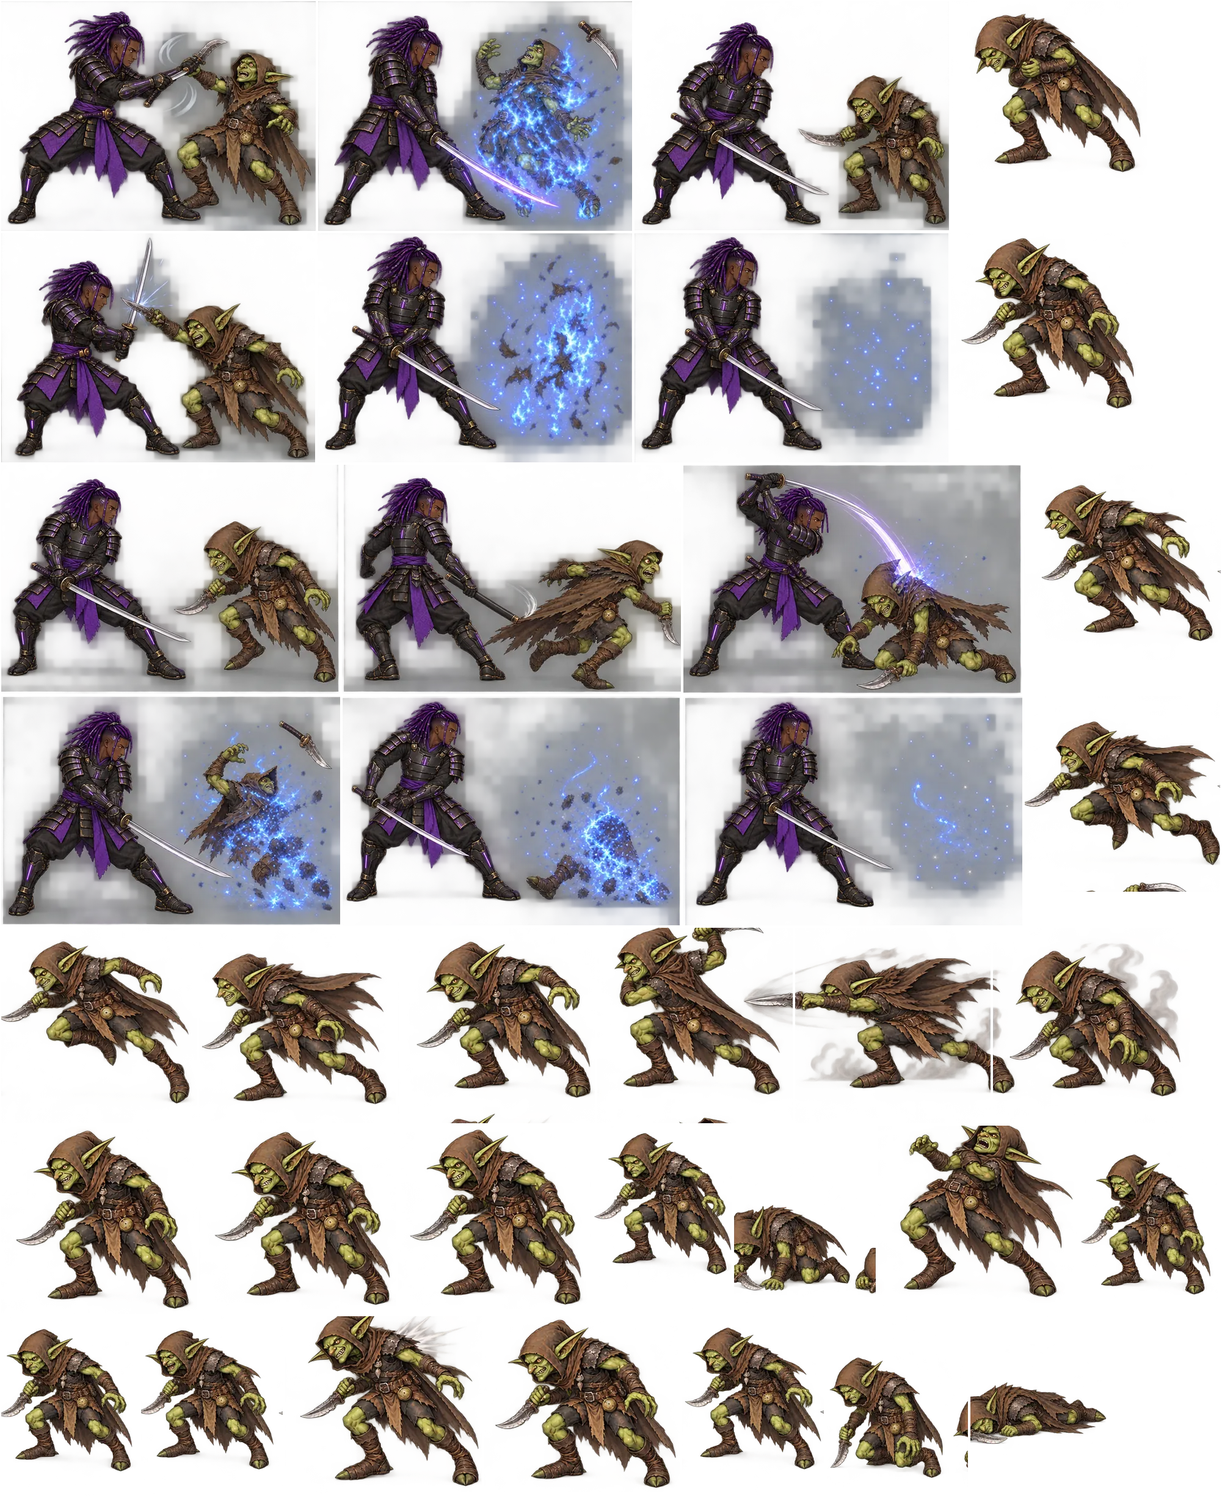
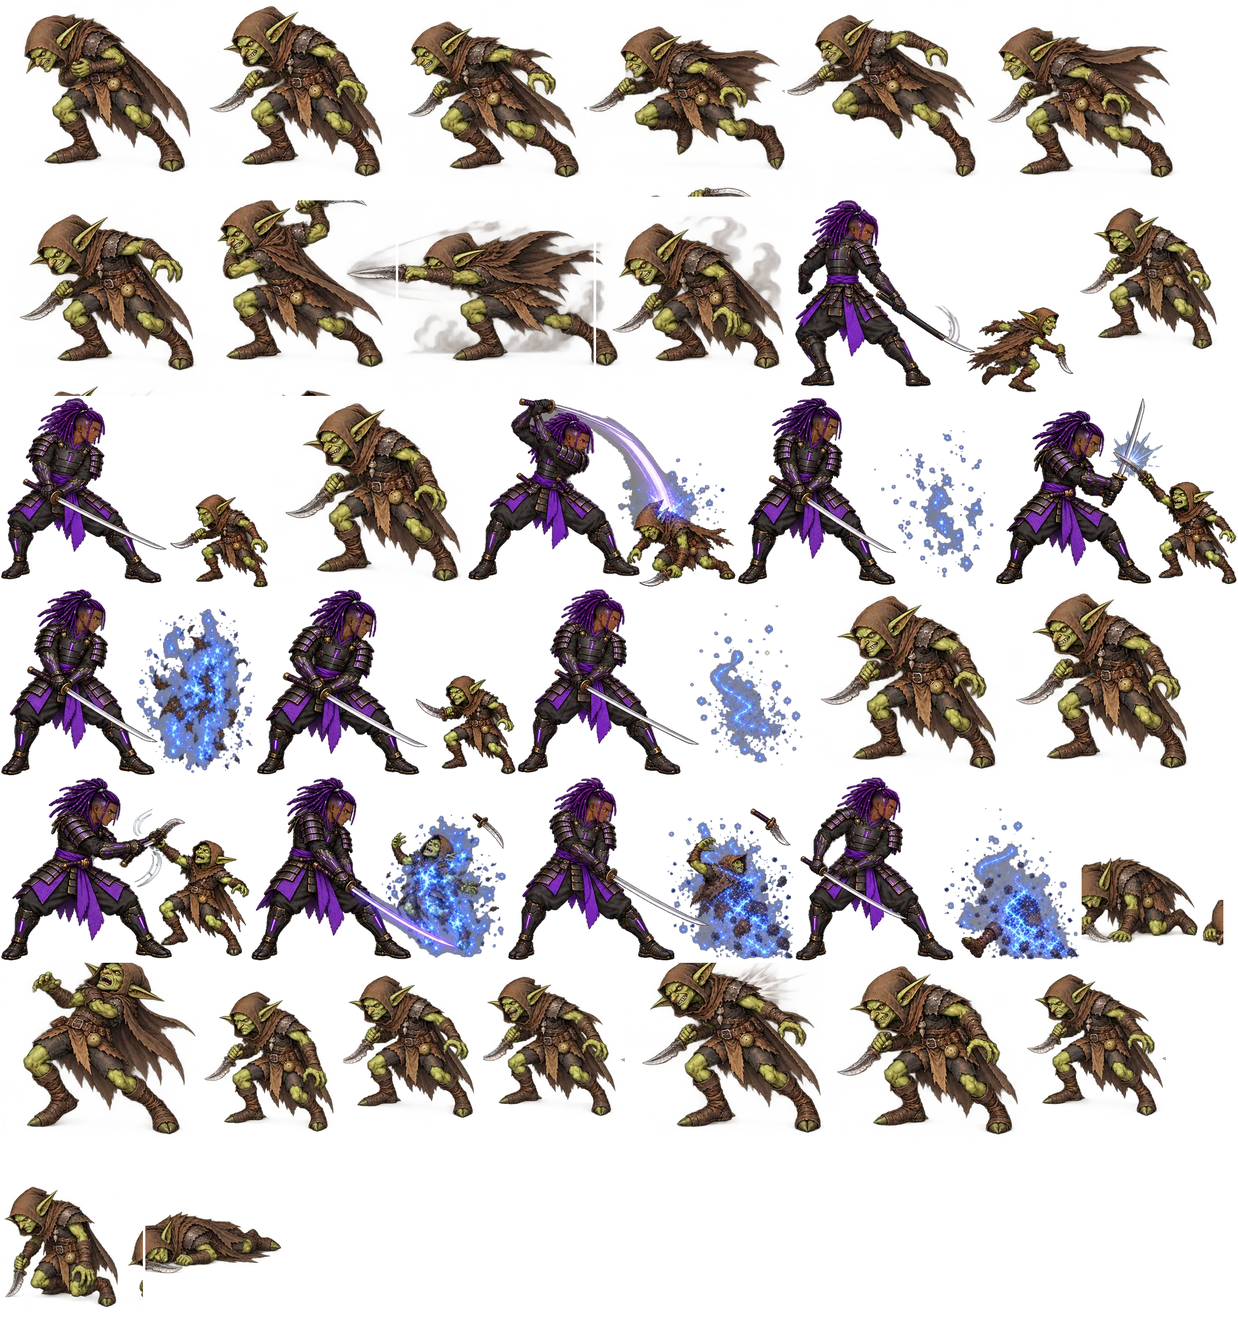
Keep enemy crowd scale and polish inn guests and swamp presentation

diff --git a/test/browser_release_polish.js b/test/browser_release_polish.js
@@ -13,11 +13,19 @@ const server=http.createServer((req,res)=>{const rel=decodeURIComponent(req.url.
  await page.goto('http://127.0.0.1:'+server.address().port+'/index.html?fresh=1&renderer=canvas');
  await page.waitForFunction(()=>window.__game?.scene.getScene('Expedition')?.hero);
  await page.evaluate(()=>{__game.scene.getScene('Expedition').fight=async function(first){await this.intro(first);this.__polishReady=true;};});
- for(const [q,w,stage] of [['rain',2,'mountain'],['city',0,'city'],['city',2,'city']]) {
+ for(const [q,w,stage] of [['rain',2,'mountain'],['city',0,'city'],['city',2,'city'],['marsh',0,'swamp']]) {
   await page.evaluate(([q,w])=>{const X=ADV.Expedition,r=X.Run.fresh();r.questId=q;r.wave=w;r.phase='quest';const s=__game.scene.getScene('Expedition');s.__polishReady=false;X.Dev.go(__game.scene.getScenes(true)[0],'Expedition',{run:r,seed:17});},[q,w]);
   await page.waitForFunction(()=>__game.scene.getScene('Expedition').__polishReady,null,{timeout:30000});
   assert.equal(await page.evaluate(()=>__game.scene.getScene('Expedition').env.background.texture.key),'xp_stage_'+stage);
+  assert(await page.evaluate(()=>{const s=__game.scene.getScene('Expedition'),a=[...s.actors.values()].filter(a=>a.side==='b'),before=a.map(x=>x.img.scaleY);s.spaceFoes([...a,...a,...a]);return a.every((x,i)=>x.img.scaleY===before[i]);}),'crowd spacing changed actor scale');
   await page.screenshot({path:path.join(OUT,q+'-'+w+'-ground.png')});
+  if(q==='marsh') {
+   const count=await page.evaluate(()=>{const s=__game.scene.getScene('Expedition');return s.events.listenerCount('update');});
+   await page.evaluate(()=>{const s=__game.scene.getScene('Expedition'),a=[...s.actors.values()].find(a=>a.side==='b');a.root.setVisible(false);ADV.Expedition.DefeatFX.play(a);});
+   await page.waitForTimeout(250);await page.screenshot({path:path.join(OUT,'swamp-dust.png')});
+   await page.waitForTimeout(650);
+   assert.equal(await page.evaluate(()=>__game.scene.getScene('Expedition').events.listenerCount('update')),count,'dust listener leaked');
+  }
   if(q==='rain') for(const level of [1,2,3]) {
    await page.evaluate(level=>{const X=ADV.Expedition,s=__game.scene.getScene('Expedition'),a=[...s.actors.values()].find(a=>a.side==='b');a.alive=true;a.root.setVisible(true);a.img.setAlpha(1);a.idle();s.hero.root.x=s.hero.home.x;s.__done=false;s.__contact=false;const start=performance.now();s.hero.play('finisher',{target:a,lethal:true,level,onContact:()=>s.__contact=true}).then(()=>{s.__elapsed=performance.now()-start;s.__done=true;});},level);
    await page.waitForFunction(()=>__game.scene.getScene('Expedition').__contact);
@@ -28,14 +36,14 @@ const server=http.createServer((req,res)=>{const rel=decodeURIComponent(req.url.
  }
  for(const width of [1280,390]) {
   await page.setViewportSize({width,height:Math.round(width*760/1280)});
-  for(const clears of [1,2]) {
+  for(const clears of [0,1,2,3,4]) {
    await page.evaluate(clears=>{const X=ADV.Expedition,r=X.Run.fresh();r.phase='inn';r.cycles={rain:clears};X.Dev.go(__game.scene.getScenes(true)[0],'Inn',{run:r});},clears);
    await page.waitForFunction(clears=>{const s=__game.scene.getScene('Inn');return __game.scene.isActive('Inn')&&s.__presentationReady&&s.run.cycles.rain===clears;},clears);
    const state=await page.evaluate(()=>{const s=__game.scene.getScene('Inn');return{variant:s.env.variant,roster:s.run.roster,field:s.run.field,locks:s.lockedButtons.length};});
-   assert.equal(state.variant,clears===1?'inn-hiro-bram':'inn-hiro-solo');assert.deepEqual(state.roster,[]);assert.deepEqual(state.field,[]);assert.equal(state.locks,1);
+   assert.equal(state.variant,['inn-hiro-solo','inn-hiro-bram','inn-hiro-mage','inn-hiro-warrior','inn-hiro-ranger'][clears]);assert.deepEqual(state.roster,[]);assert.deepEqual(state.field,[]);assert.equal(state.locks,0);
    await page.screenshot({path:path.join(OUT,'inn-'+clears+'-'+width+'.png')});
   }
  }
- assert.deepEqual(errors,[]);fs.writeFileSync(path.join(OUT,'results.json'),JSON.stringify({timings,errors},null,2));console.log('release polish: both floors, all Alpha finishers and solo/guest inn at desktop/mobile passed');
+ assert.deepEqual(errors,[]);fs.writeFileSync(path.join(OUT,'results.json'),JSON.stringify({timings,errors},null,2));console.log('release polish: three floors, fixed crowd scale, all Alpha finishers and five inns at desktop/mobile passed');
  } finally {await browser.close();server.close();}
 })().catch(e=>{console.error(e);process.exit(1);});

diff --git a/index.html b/index.html
@@ -125,7 +125,7 @@
 <script src="js/data/personality_travel.js?v=20260918-xp2"></script>
 <script src="js/data/personality_social.js?v=20260918-xp2"></script>
 <script src="js/data/campaign_story.js?v=20260918-xp2"></script>
-<script src="js/expedition/media_hashes.js?v=20260928-xp1"></script>
+<script src="js/expedition/media_hashes.js?v=20260928-xp12"></script>
 <script src="js/core/rng.js?v=20260918-xp2"></script>
 <script src="js/core/util.js?v=20260918-xp2"></script>
 <script src="js/core/skillsys.js?v=20260918-xp2"></script>
@@ -197,23 +197,23 @@
 <script src="js/ui/dialoguebox.js?v=20260918-xp2"></script>
 <script src="js/ui/cutscenes.js?v=20260918-xp2"></script>
 <script src="js/ui/portal.js?v=20260918-xp2"></script>
-<script src="js/expedition/data.js?v=20260928-xp1"></script>
-<script src="js/expedition/shim.js?v=20260928-xp1"></script>
-<script src="js/expedition/encounter.js?v=20260928-xp1"></script>
-<script src="js/expedition/run.js?v=20260928-xp1"></script>
-<script src="js/expedition/ui_common.js?v=20260928-xp1"></script>
-<script src="js/expedition/dev.js?v=20260928-xp1"></script>
-<script src="js/expedition/painted.js?v=20260928-xp1"></script>
-<script src="js/expedition/battle_stage.js?v=20260928-xp1"></script>
-<script src="js/expedition/inn_art.js?v=20260928-xp1"></script>
-<script src="js/expedition/actors.js?v=20260928-xp1"></script>
-<script src="js/expedition/defeat_fx.js?v=20260928-xp1"></script>
-<script src="js/expedition/beats.js?v=20260928-xp1"></script>
-<script src="js/expedition/hud.js?v=20260928-xp1"></script>
-<script src="js/expedition/campaign.js?v=20260928-xp1"></script>
-<script src="js/expedition/scene.js?v=20260928-xp1"></script>
-<script src="js/expedition/travel_art.js?v=20260928-xp1"></script>
-<script src="js/expedition/scenes_town.js?v=20260928-xp1"></script>
+<script src="js/expedition/data.js?v=20260928-xp12"></script>
+<script src="js/expedition/shim.js?v=20260928-xp12"></script>
+<script src="js/expedition/encounter.js?v=20260928-xp12"></script>
+<script src="js/expedition/run.js?v=20260928-xp12"></script>
+<script src="js/expedition/ui_common.js?v=20260928-xp12"></script>
+<script src="js/expedition/dev.js?v=20260928-xp12"></script>
+<script src="js/expedition/painted.js?v=20260928-xp12"></script>
+<script src="js/expedition/battle_stage.js?v=20260928-xp12"></script>
+<script src="js/expedition/inn_art.js?v=20260928-xp12"></script>
+<script src="js/expedition/actors.js?v=20260928-xp12"></script>
+<script src="js/expedition/defeat_fx.js?v=20260928-xp12"></script>
+<script src="js/expedition/beats.js?v=20260928-xp12"></script>
+<script src="js/expedition/hud.js?v=20260928-xp12"></script>
+<script src="js/expedition/campaign.js?v=20260928-xp12"></script>
+<script src="js/expedition/scene.js?v=20260928-xp12"></script>
+<script src="js/expedition/travel_art.js?v=20260928-xp12"></script>
+<script src="js/expedition/scenes_town.js?v=20260928-xp12"></script>
 <script>
 (async function () {
 await ADV.Portal.prepare();

diff --git a/js/expedition/defeat_fx.js b/js/expedition/defeat_fx.js
@@ -4,12 +4,33 @@ const X = ADV.Expedition, FX = X.DefeatFX = {};
 FX.location = run => run && run.questId === 'marsh' ? 'swamp' : run && run.questId === 'city' ? 'city' : null;
 FX.preload = scene => {
   const loc = FX.location(scene.opts.run || X.Run.load());
-  if (loc && !scene.textures.exists('defeat_' + loc)) scene.load.spritesheet('defeat_' + loc, 'assets/expedition/effects/' + loc + '.webp', { frameWidth: 256, frameHeight: 256 });
+  if (loc === 'city' && !scene.textures.exists('defeat_' + loc)) scene.load.spritesheet('defeat_' + loc, 'assets/expedition/effects/' + loc + '.webp', { frameWidth: 256, frameHeight: 256 });
 };
 FX.play = actor => {
   const scene = actor.scene, loc = FX.location(scene.run), key = 'defeat_' + loc;
-  if (!loc || actor.side !== 'b' || actor.__defeatEffect || !scene.textures.exists(key)) return;
+  if (!loc || actor.side !== 'b' || actor.__defeatEffect || (loc === 'city' && !scene.textures.exists(key))) return;
   actor.__defeatEffect = true;
+  if (loc === 'swamp') {
+    const g=scene.add.graphics().setDepth(222),width=Math.min(220,Math.max(100,actor.height*.65));
+    const x=actor.root.x,y=actor.root.y;let age=0;
+    const stop=()=>{scene.events.off('update',tick);scene.events.off('shutdown',stop);g.destroy();};
+    const tick=(_t,dt)=>{
+      if(scene.paused||scene.time.paused)return;
+      age+=dt*scene.time.timeScale;const u=Math.min(1,age/750);g.clear();
+      // Low, expanding ochre puffs and tiny earth flecks; no falling sheet or loop.
+      for(let i=0;i<11;i++){
+        const q=i/10,spread=(q-.5)*width*(.3+u),rise=Math.sin(q*Math.PI)*32*u;
+        const radius=(12+(i%3)*5)*(1+u*.7),alpha=Math.sin(Math.PI*u)*.28;
+        g.fillStyle(i%2?0x92816a:0x655b4e,alpha);g.fillEllipse(x+spread,y-8-rise,radius*2,radius);
+      }
+      for(let i=0;i<12;i++){
+        const v=(i/11-.5);g.fillStyle(0xb4a074,(1-u)*.65);
+        g.fillCircle(x+v*width*u,y-8-75*Math.sin(Math.PI*u)*(1-Math.abs(v)),2*(1-u)+.5);
+      }
+      if(age>=750)stop();
+    };
+    scene.events.on('update',tick);scene.events.once('shutdown',stop);return;
+  }
   const effects = [0, 1, 2].map(row => {
     const s = scene.add.sprite(actor.x, actor.y - (row === 2 ? actor.height * .25 : 0), key, row * 4).setOrigin(.5, 1).setDepth(220 + row);
     s.setDisplaySize(Math.max(180, actor.height), row === 1 && loc === 'swamp' ? 100 : actor.height);

diff --git a/test/inn_art_lifecycle.js b/test/inn_art_lifecycle.js
@@ -37,11 +37,11 @@ function scene(cached = true) {
 let passed = 0;
 async function test(name, fn) { await fn(); passed++; console.log('ok ' + name); }
 (async () => {
-  await test('manifest cold-load queues exactly its five selected image assets', () => {
+  await test('manifest cold-load queues its five paintings and three effects', () => {
     const s = scene(false); s.loaded.clear(); X.InnArt.preload(s);
     assert.equal(s.load.queued.length, 1); assert.equal(s.load.queued[0][0], 'json');
     s.json.set('xp_inn_manifest', manifest); s.load.emit('filecomplete-json-xp_inn_manifest');
-    assert.equal(s.load.queued.filter(f => f[0] === 'image').length, 2);
+    assert.equal(s.load.queued.filter(f => f[0] === 'image').length, 5);
     assert.equal(s.load.queued.filter(f => f[0] === 'spritesheet').length, 3);
     s.events.emit('shutdown'); assert.equal(s.load.listenerCount('filecomplete-json-xp_inn_manifest'), 0);
     const warm = scene(); X.InnArt.preload(warm); assert.equal(warm.load.queued.length, 0);
@@ -67,8 +67,10 @@ async function test(name, fn) { await fn(); passed++; console.log('ok ' + name);
     assert.equal(X.InnArt.variant(r), 'inn-hiro-bram');
     assert.equal(X.InnArt.variant(JSON.parse(before)), 'inn-hiro-bram');
     assert.equal(JSON.stringify(r), before);
-    r.cycles.marsh = 1; assert.equal(X.InnArt.variant(r), 'inn-hiro-solo');
-    r.cycles.city = 1; assert.equal(X.InnArt.variant(r), 'inn-hiro-bram');
+    r.cycles.marsh = 1; assert.equal(X.InnArt.variant(r), 'inn-hiro-mage');
+    r.cycles.city = 1; assert.equal(X.InnArt.variant(r), 'inn-hiro-warrior');
+    r.cycles.city = 2; assert.equal(X.InnArt.variant(r), 'inn-hiro-ranger');
+    r.cycles.city = 3; assert.equal(X.InnArt.variant(r), 'inn-hiro-solo');
   });
   await test('party changes replace effects and masks without accumulating listeners', () => {
     const s = scene(), v = X.InnArt.paint(s, solo), previous = v.effects.slice(), mask = previous[2].mask;

diff --git a/js/expedition/campaign.js b/js/expedition/campaign.js
@@ -125,8 +125,8 @@ Object.assign(X.enemies, {
   beetle: { base: 'iron_beetle', name: 'Iron Beetle', level: 4, kind: 'beetle', artActor: 'beetle', height: 175, boss: false, actives: ['carapace_burst', 'sunder'], perks: [], statMult: { hp: 0.75, atk: 0.65, def: 0.75 } },
   moss_giant: { base: 'moss_giant', name: 'Moss Giant', level: 5, kind: 'moss_giant', artActor: 'moss_giant', height: 330, boss: false, actives: ['treefall', 'cleave'], perks: [], statMult: { hp: 0.85, atk: 0.65, def: 0.8 } },
   hag: { base: 'mire_hag', name: 'Mire Hag', level: 6, kind: 'boss', artActor: 'hag', height: 310, boss: true, actives: ['bog_curse', 'wither_touch'], perks: [], phase2At: 0.5, statMult: { hp: 1.45, atk: 0.75, def: 0.8 } },
-  goblin: { base: 'goblin_king', name: 'Gutter Goblin', level: 5, kind: 'goblin', artActor: 'goblin', height: 205, boss: false, actives: ['backstab', 'smoke_bomb'], perks: [], statMult: { hp: 0.7, atk: 0.7, def: 0.75 } },
-  spider: { base: 'crystal_spider', name: 'Glass Spider', level: 5, kind: 'spider', artActor: 'spider', height: 190, boss: false, actives: ['glass_web'], perks: [], statMult: { hp: 0.75, atk: 0.7, def: 0.75 } },
+  goblin: { base: 'goblin_king', name: 'Gutter Goblin', level: 5, kind: 'goblin', artActor: 'goblin', height: 175, boss: false, actives: ['backstab', 'smoke_bomb'], perks: [], statMult: { hp: 0.7, atk: 0.7, def: 0.75 } },
+  spider: { base: 'crystal_spider', name: 'Glass Spider', level: 5, kind: 'spider', artActor: 'spider', height: 155, boss: false, actives: ['glass_web'], perks: [], statMult: { hp: 0.75, atk: 0.7, def: 0.75 } },
   orc: { base: 'orc_king', name: 'Ironjaw', level: 7, kind: 'boss', artActor: 'orc', height: 350, boss: true, actives: ['war_bellow', 'cleave'], perks: [], phase2At: 0.5, statMult: { hp: 1.6, atk: 0.75, def: 0.85 } },
 });
 Object.assign(X.encounterDefs, {

diff --git a/js/expedition/battle_stage.js b/js/expedition/battle_stage.js
@@ -2,7 +2,7 @@
 (function () {
 'use strict';
 const A = ADV, X = A.Expedition, Stage = X.BattleStage = {};
-const plates = { mountain: 'mountain', alley: 'city' };
+const plates = { mountain: 'mountain', alley: 'city', marsh: 'swamp' };
 Stage.preload = scene => {
   const r = scene.opts?.run || X.Run.load() || X.Run.fresh();
   const q = X.Campaign.quest(r.questId) || X.quests[0];
@@ -19,14 +19,14 @@ Stage.paint = (scene, bg, phase) => {
   if (!scene.textures.exists(key)) { root.ready = Promise.resolve(false); return root; }
   const image = scene.add.image(0,0,key).setOrigin(0).setDisplaySize(1280,760);
   root.add(image);root.background=image;root.locationId=bg;
-  if (phase === 'night') image.setTint(0x748aba);
+  if (phase === 'night' && id !== 'swamp') image.setTint(0x748aba);
   const fx = scene.add.graphics();root.add(fx);
   let elapsed = 0;
   const tick = (_t,dt) => {
     if (scene.paused || scene.time.paused) return;
     elapsed += dt * scene.time.timeScale;fx.clear();
     // A thin distant haze leaves the solid fighting surface unobscured.
-    if (id === 'mountain') for(let i=0;i<5;i++) {
+    if (id === 'mountain' || id === 'swamp') for(let i=0;i<5;i++) {
       fx.fillStyle(0xd8e2ee,.025);
       fx.fillEllipse((i*310+elapsed*.008) % 1580-150,425+Math.sin(elapsed/2400+i)*8,360,22);
     }

diff --git a/js/expedition/scene.js b/js/expedition/scene.js
@@ -183,11 +183,10 @@ class ExpeditionScene extends Phaser.Scene {
     // Small waves keep the classic marks when they fit; anything wider is packed.
     if (!wide && foes.length <= FOE_X.length && total <= 300) { foes.forEach((a, i) => { a.home.x = FOE_X[i]; }); return; }
     if (wide) {
-      // A crowd: shrink everyone a touch (never below 0.82) and spread across a
-      // wider span, front-most last so the overlap reads as a line, not a pile.
-      const k = Math.max(0.82, Math.min(1, span * 1.6 / total));
+      // A crowd uses a wider span, front-most last for readable overlap.
+      // Keep authored scale: crowds use spacing and depth, never smaller bodies.
       const l2 = left - 40, r2 = right + 20, step = (r2 - l2) / foes.length;
-      foes.forEach((a, i) => { a.rescale(k); a.home.x = Math.round(l2 + step * (i + 0.5)); a.root.setDepth(100 + i); });
+      foes.forEach((a, i) => { a.home.x = Math.round(l2 + step * (i + 0.5)); a.root.setDepth(100 + i); });
       return;
     }
     const gap = (span - total) / (foes.length + 1);

diff --git a/js/expedition/inn_art.js b/js/expedition/inn_art.js
@@ -31,9 +31,9 @@ Art.variant = run => {
   // Derive it from completed quests: reloads keep the same painting and no
   // extra persistent counter can accidentally change the party or save format.
   const clears = Object.values(run.cycles || {}).reduce((n, v) => n + (Number.isFinite(v) ? Math.max(0, Math.floor(v)) : 0), 0);
-  const guest = clears > 0 && clears % 2 === 1;
+  const variant = ['inn-hiro-solo','inn-hiro-bram','inn-hiro-mage','inn-hiro-warrior','inn-hiro-ranger'][clears % 5];
   const companion = X.Campaign.owns(run, 'bram') && X.Campaign.fielded(run, 'bram') && X.Campaign.recruitReady('bram');
-  return guest || companion ? 'inn-hiro-bram' : 'inn-hiro-solo';
+  return companion ? 'inn-hiro-bram' : variant;
 };
 
 Art.paint = function (scene, run) {

diff --git a/tools/build_inn_swamp_polish.py b/tools/build_inn_swamp_polish.py
@@ -1,0 +1,21 @@
+"""Repack the September 28 source paintings and corrected small-enemy pairs."""
+from pathlib import Path
+import json
+from PIL import Image
+from art_intake_v2 import build
+
+ROOT = Path(__file__).resolve().parents[1]
+SRC = ROOT.parent / 'adventurer-expeditions-source-art/astra-v3/inn-swamp-20260928'
+for name in ('inn-hiro-mage', 'inn-hiro-warrior', 'inn-hiro-ranger', 'swamp'):
+    folder = 'stages' if name == 'swamp' else 'inn'
+    Image.open(SRC / (name + '.png')).convert('RGB').resize((1280, 760), Image.Resampling.LANCZOS).save(
+        ROOT / 'assets/expedition' / folder / (name + '.webp'), quality=86, method=6)
+for actor in ('goblin', 'spider'):
+    original = SRC.parent / 'monsters' / actor
+    manifest = json.loads((SRC / (actor + '-manifest.json')).read_text(encoding='utf-8'))
+    for clip in manifest['clips']:
+        if clip.get('paired'):
+            clip['sourceRoot'] = str(SRC)
+    doc = build(original, actor, ROOT / 'assets/expedition', height=300, quality=80, manifest=manifest)
+    doc['authoredFacing'] = -1
+    (ROOT / 'assets/expedition' / actor / (actor + '.json')).write_text(json.dumps(doc, separators=(',', ':')), encoding='utf-8')

diff --git a/docs/INN_SWAMP_POLISH_20260928.md b/docs/INN_SWAMP_POLISH_20260928.md
@@ -1,0 +1,21 @@
+# Enemy scale, inn guests and swamp polish
+
+Crowded waves no longer call Actor.rescale. They retain authored body size and use horizontal spacing and draw order. Alpha and other large enemies retain their existing full sizes even in boss packs. Goblin height is 175 (formerly 205), spider 155 (formerly 190), against Hiro's 330. Four replacement paired finisher sheets depict those smaller enemies; neither enemy is resized dynamically for crowd count.
+
+Five stable inn variants rotate by total completed quests modulo five: solo, Bram, mage with dancer, warrior with barmaid, ranger. Guests do not join the party. Reloading preserves the variant. Existing candle and stew animation is reused; the mage scene omits the hearth overlay where it would paint over the background dancer. The ranger has closed gloved hands around her spoon/bowl; the supplied reference's extra-finger pose was not copied.
+
+The marsh now uses its own level causeway battle painting, with atmospheric haze. The swamp defeat effect is a single 750 ms low earth/dust burst with dispersing flecks. It respects pause and scene shutdown, is reusable for any enemy and does not replay the old three-strip mud sheets. Forest and city effects are unchanged.
+
+## Sources and rebuilding
+
+Generated with built-in image_gen. Paintings, corrected pair masters, exact prompts and source registration manifests: `../adventurer-expeditions-source-art/astra-v3/inn-swamp-20260928/`. Repack with `python tools/build_inn_swamp_polish.py`. Older monster masters remain available; use this newer packer for goblin/spider to retain these corrections. New inn images are listed explicitly in the shipping allowlist. No original Adventurer or synced shared files changed.
+
+## Verification
+
+- Actor animation lifecycle 25/25, inn lifecycle 6/6, finisher pacing passed.
+- Browser: all 14 later-monster finishers, seven monsters and four travel beats passed.
+- Browser: all three Alpha finishers, unchanged crowd scale, three battle floors and all five inns at 1280 and 390 px passed; dust lifecycle cleanup passed.
+- Cold startup, desktop and emulated mobile: 13.66 MB at gameplay, 14.74 MB after audio unlock. Total ship set approximately 42.21 MB / 271 files. Tests used installed Chrome because the local Playwright package expected an absent bundled browser.
+- Full `npm test` is NOT green: the automatic-combat floor in `test/expedition_sim.js:501` fails at a 0.20 win rate. Reproduced against the pre-art checkpoint's JavaScript loaded directly from Git HEAD, with identical results. The recent balance settings and test floor need reconciliation separately; this pass does not change them or weaken the assertion.
+
+No public deployment or refreshed release candidate. In-game visual approval is pending.

diff --git a/docs/CHANGELOG.md b/docs/CHANGELOG.md
@@ -15,6 +15,14 @@ of small fixes within a day.
 
 ---
 
+## 2026-09-28 - Stable enemy scale, three inn guests and swamp polish
+
+Removed crowd-dependent shrinking; goblin/spider are now 175/155 high against Hiro's 330, with four repainted matching finisher sheets. Added three inn paintings (mage+dancer, warrior+barmaid, ranger), stable five-scene rotation, level swamp battlefield and a one-shot 750 ms ground dust defeat effect. Existing inn loops reused. Files: actor spacing in `scene.js`, visual heights in `campaign.js`, `inn_art.js`, `battle_stage.js`, `defeat_fx.js`, goblin/spider atlases, inn manifest/paintings, swamp plate, ship manifest, xp12 cache stamp, browser/inn checks and `build_inn_swamp_polish.py`.
+
+Presentation browser checks and focused unit checks passed; startup 14.74 MB after audio unlock. Full npm test still fails the pre-existing balance win-rate floor, independently reproduced from the pre-art Git checkpoint. Details, source prompts, validation and limitations: `INN_SWAMP_POLISH_20260928.md`. No deployment; user playtest pending.
+
+---
+
 ## 2026-09-28 - Second balance pass: harder monsters, guaranteed boss packs, bosses in regular waves, permanent board
 
 Hiro's playtest of the first pass reached a fourth playthrough without ever meeting a two-boss wave (the 60% single-boss roll on the second playthrough), and asked for more bite. All knobs in `js/expedition/data.js` and `js/expedition/campaign.js`:

diff --git a/docs/ADVENTURER_EXPEDITIONS_GDD_v0.9.md b/docs/ADVENTURER_EXPEDITIONS_GDD_v0.9.md
@@ -1,6 +1,8 @@
 # Adventurer: Expeditions
 ## CrazyGames edition — game design document
 
+**September 28 presentation update:** fixed enemy scale regardless of crowd count; small goblin/spider paired finishers; five inn paintings rotating with completed quests; level swamp causeway and one-shot earth defeat burst. See `INN_SWAMP_POLISH_20260928.md`. No combat balance changes in this art pass.
+
 Version 0.9 · September 19, 2026 (rev. b) · Status reconciled September 20, 2026 · Working title
 
 This revision supersedes v0.8; v0.5 through v0.8 are kept in `docs/` for history.
